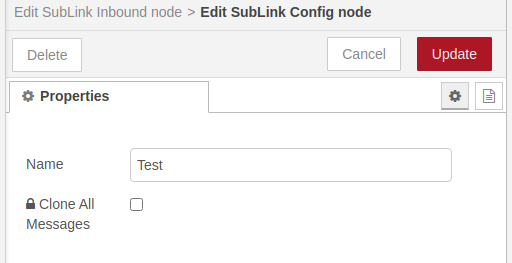
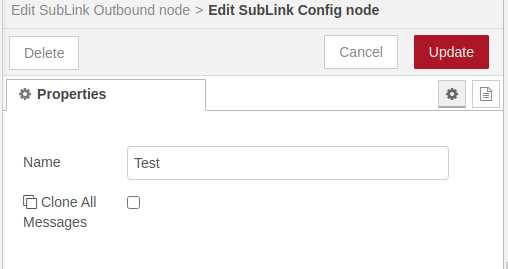
Add Readme

Changed region(s): [[0.0, 0.0, 1.0, 1.0], [0.2362, 0.5171, 0.8858, 0.6996], [0.2362, 0.73, 0.2953, 0.7909]]

diff --git a/sub-link-output.html b/sub-link-output.html
@@ -33,6 +33,11 @@
         <label for="node-input-name"><i class="fa fa-tag"></i> Name</label>
         <input type="text" id="node-input-name">
     </div>
+
+    <div class="form-row">
+        <input type="checkbox" id="node-input-clone" style="display: inline-block; width: auto; vertical-align: top;">
+        <label for="node-input-clone" style="width: auto"><i class="fa fa-clone"></i> Clone</label>
+    </div>
 </script>
 
 <script type="text/x-red" data-help-name="sub-link-output">

diff --git a/sub-link-config.html b/sub-link-config.html
@@ -19,7 +19,7 @@
     </div>
 
     <div class="form-row">
-        <label for="node-config-input-clone"><i class="fa fa-lock"></i> Clone All Messages</label>
+        <label for="node-config-input-clone"><i class="fa fa-clone"></i> Clone All Messages</label>
         <input type="checkbox" id="node-config-input-clone" style="display: inline-block; width: auto; vertical-align: top;">
     </div>
 </script>

diff --git a/README.md b/README.md
@@ -1,11 +1,5 @@
-## node-red-contrib-sub-link
-
-
-# Sub Link - A link to Sublows
-
-#### Node-RED Node to link subndes
-
-
+# node-red-contrib-sub-link
+## Sub Link - A link to Sublows
 
 ### Install
 
@@ -14,3 +8,25 @@ npm install node-red-contrib-sub-link
 
 ### Usage
 This node can be used to link flows and subflows
+
+#### Config
+![Config](https://raw.githubusercontent.com/soloam/node-red-contrib-sub-link/alpha/resources/config.png)
+
+**Name:** Name of the link
+**Clone All Messages:** Clones all messages that are handled by this link
+
+#### Input
+![Input](https://raw.githubusercontent.com/soloam/node-red-contrib-sub-link/alpha/resources/input.png)
+
+**Link:** The selected link to handle the messages
+**Topic:** The topic that will send the message, this is optional. If not specified, only outputs with all (#) wildcard will recive the message, and outputs without topic
+
+#### Output
+![Input](https://raw.githubusercontent.com/soloam/node-red-contrib-sub-link/alpha/resources/output.png)
+
+**Link:** The selected link to handle the messages
+**Topic:** The topic that will send the message, this is optional. If not specified, only outputs with all (#) wildcard will recive the message, and outputs without topic
+**Clone:** Clones all messages that are exit this node
+
+### Example
+![Input](https://raw.githubusercontent.com/soloam/node-red-contrib-sub-link/alpha/resources/example.png)
